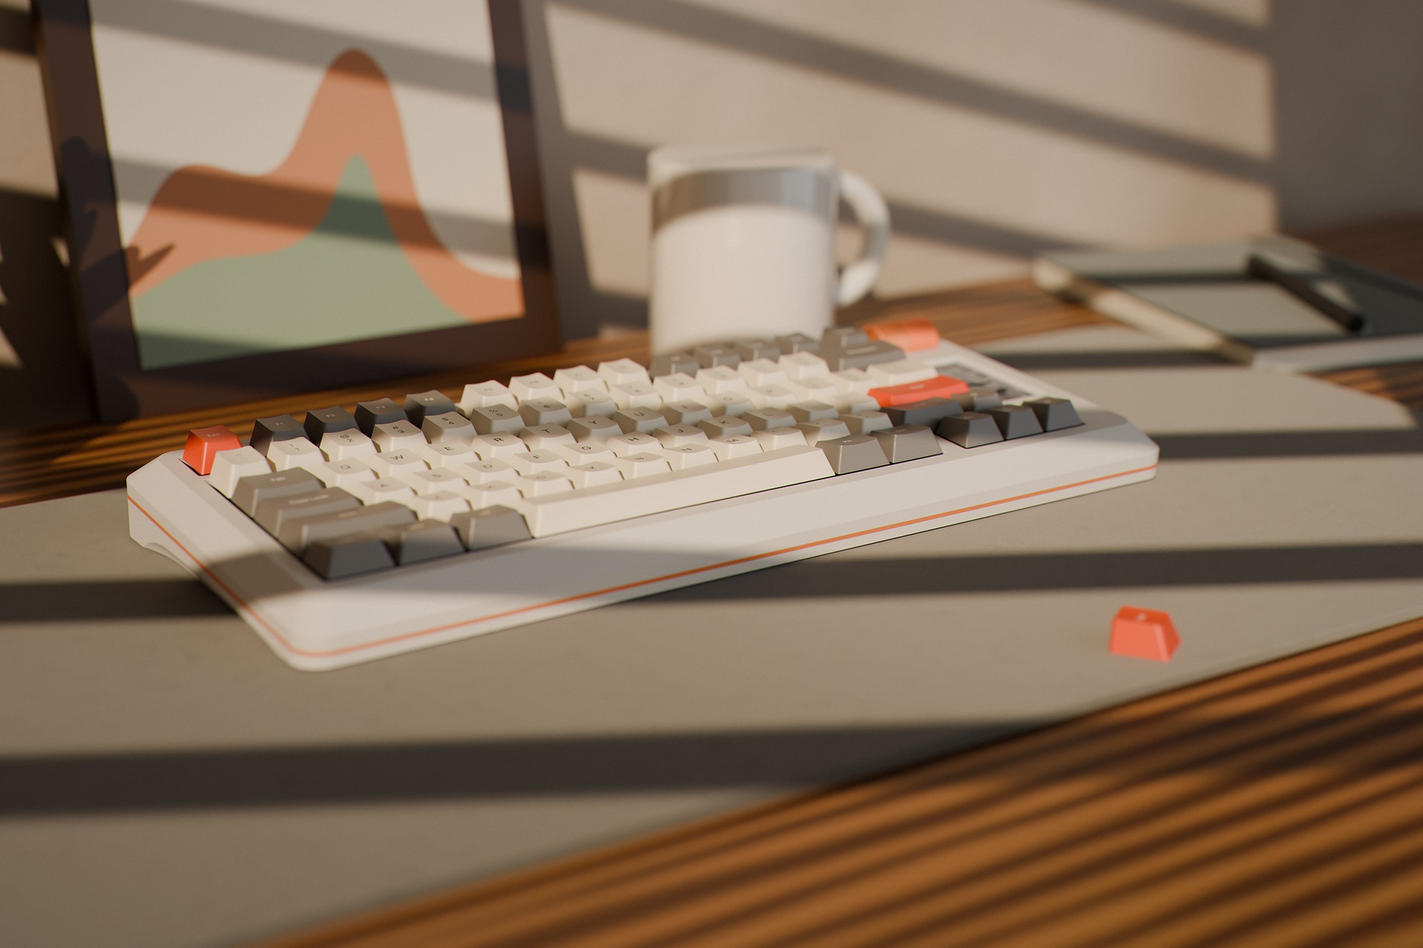
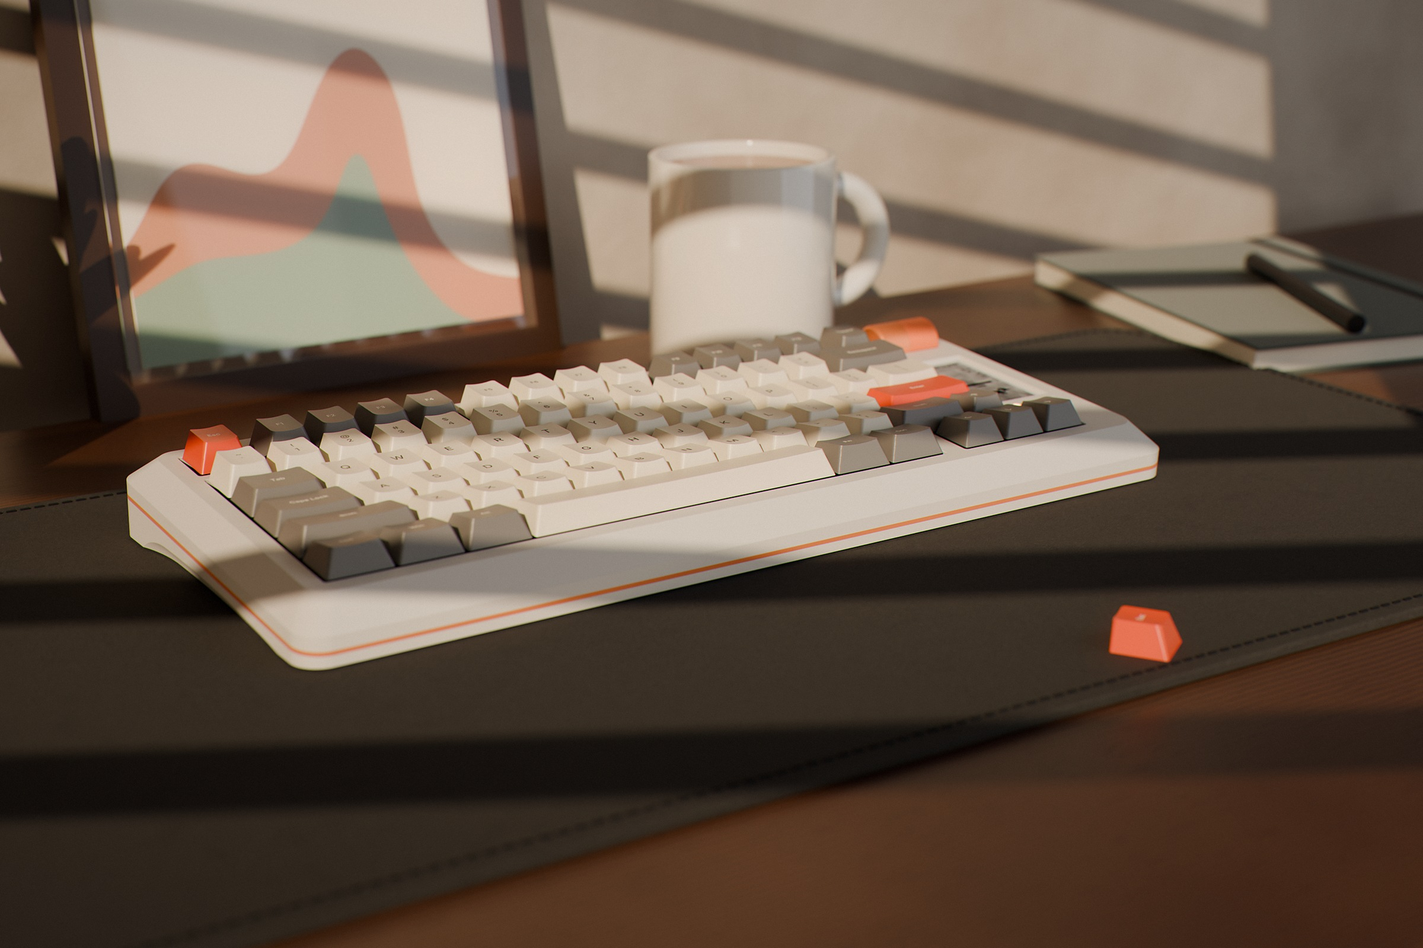
Case renders: third review
Dramatic: walnut plank desk, wool felt with black edge stitching, lime
plaster wall, coffee in a hollow mug, glass over the print. Views: darker
exposure, an even deep green backdrop that turns to face each camera,
gentler light on the brass. Both: left three status LEDs lit amber, a
little more dust and a stronger fingerprint.

diff --git a/hardware/case/blender/render.py b/hardware/case/blender/render.py
@@ -1,6 +1,6 @@
 # blender -b base_<accent>.blend --python render.py -- <scene> <outdir> [samples] [views]
 import bpy, bmesh, os, sys, math
-from mathutils import Vector, Euler
+from mathutils import Vector, Euler, Matrix
 argv = sys.argv[sys.argv.index("--") + 1:]
 SCENE, OUT = argv[0], argv[1]
 SAMPLES = int(argv[2]) if len(argv) > 2 else 256
@@ -27,7 +27,7 @@ sc.cycles.use_denoising = True
 sc.cycles.max_bounces = 10; sc.cycles.transmission_bounces = 10; sc.cycles.glossy_bounces = 6
 sc.view_settings.view_transform = "AgX"
 sc.view_settings.look = "AgX - Medium High Contrast"
-sc.view_settings.exposure = {"dramatic": 0.0, "views": -0.55}.get(SCENE, 0.0)
+sc.view_settings.exposure = {"dramatic": 0.0, "views": -0.85}.get(SCENE, 0.0)
 sc.cycles.filter_width = 1.2
 sc.cycles.denoising_prefilter = "ACCURATE"
 sc.render.image_settings.file_format = "PNG"
@@ -180,31 +180,68 @@ if SCENE == "dramatic":
             b = o.modifiers.new("bv", "BEVEL"); b.width = bevel; b.segments = 3; b.use_clamp_overlap = True
         return o
 
-    # --- oak desk: growth rings stretched along X, fine pores, satin finish ---
-    wood, nt, wb = node_mat("Oak desk")
+    # --- walnut desk: planks, flat-sawn cathedral grain (rings round a buried pith), pores, satin oil finish ---
+    wood, nt, wb = node_mat("Walnut desk")
+    def W(op, a, b=None, c=None):
+        n = nt.nodes.new("ShaderNodeMath"); n.operation = op
+        for i, v in enumerate((a, b, c)):
+            if v is None: continue
+            if isinstance(v, (int, float)): n.inputs[i].default_value = v
+            else: nt.links.new(v, n.inputs[i])
+        return n.outputs[0]
     geo = nt.nodes.new("ShaderNodeNewGeometry")
-    mp = N(nt, "ShaderNodeMapping"); mp.inputs["Scale"].default_value = (0.06, 1.0, 1.0)
-    nt.links.new(geo.outputs["Position"], mp.inputs["Vector"])
-    wv = N(nt, "ShaderNodeTexWave", Scale=22.0, Distortion=7.0, Detail=6.0, **{"Detail Scale": 1.6})
-    wv.wave_type = "RINGS"; nt.links.new(mp.outputs[0], wv.inputs["Vector"])
-    mp2 = N(nt, "ShaderNodeMapping"); mp2.inputs["Scale"].default_value = (0.05, 1.5, 1.0)
-    nt.links.new(geo.outputs["Position"], mp2.inputs["Vector"])
-    pores = N(nt, "ShaderNodeTexNoise", Scale=900.0, Detail=4.0); nt.links.new(mp2.outputs[0], pores.inputs["Vector"])
-    blot = N(nt, "ShaderNodeTexNoise", Scale=3.0, Detail=3.0); nt.links.new(geo.outputs["Position"], blot.inputs["Vector"])
-    cr = nt.nodes.new("ShaderNodeValToRGB"); e = cr.color_ramp.elements
-    e[0].position, e[0].color = 0.25, srgb("#5A361D"); e[1].position, e[1].color = 0.8, srgb("#A8774B")
-    nt.links.new(wv.outputs["Fac"], cr.inputs["Fac"])
-    mix = nt.nodes.new("ShaderNodeMix"); mix.data_type = "RGBA"; mix.blend_type = "MULTIPLY"
-    mix.inputs[0].default_value = 0.25; nt.links.new(cr.outputs["Color"], mix.inputs[6]); nt.links.new(blot.outputs["Color"], mix.inputs[7])
-    nt.links.new(mix.outputs[2], wb.inputs["Base Color"])
-    wb.inputs["Roughness"].default_value = 0.42; wb.inputs["Coat Weight"].default_value = 0.25
-    wb.inputs["Coat Roughness"].default_value = 0.25
-    add = N(nt, "ShaderNodeMath"); add.operation = "MULTIPLY_ADD"; add.inputs[1].default_value = 0.3
-    nt.links.new(pores.outputs["Fac"], add.inputs[0]); nt.links.new(wv.outputs["Fac"], add.inputs[2])
-    bp = N(nt, "ShaderNodeBump", Strength=0.12, Distance=0.0004)
-    nt.links.new(add.outputs[0], bp.inputs["Height"]); nt.links.new(bp.outputs["Normal"], wb.inputs["Normal"])
+    sp = nt.nodes.new("ShaderNodeSeparateXYZ"); nt.links.new(geo.outputs["Position"], sp.inputs[0])
+    X, Y = sp.outputs["X"], sp.outputs["Y"]
+    pid = W("FLOOR", W("DIVIDE", W("ADD", Y, 0.5), 0.145))            # plank index, 145 mm boards
+    wn = nt.nodes.new("ShaderNodeTexWhiteNoise"); wn.noise_dimensions = "1D"; nt.links.new(pid, wn.inputs["W"])
+    rnd = wn.outputs["Value"]
+    cx = nt.nodes.new("ShaderNodeCombineXYZ")
+    nt.links.new(W("MULTIPLY", X, 1.3), cx.inputs[0]); nt.links.new(W("MULTIPLY", pid, 3.7), cx.inputs[1])
+    dn = N(nt, "ShaderNodeTexNoise", Scale=1.0, Detail=3.0); nt.links.new(cx.outputs[0], dn.inputs["Vector"])
+    dn2 = N(nt, "ShaderNodeTexNoise", Scale=2.6, Detail=2.0); nt.links.new(cx.outputs[0], dn2.inputs["Vector"])
+    yd = W("ADD", W("ADD", Y, W("MULTIPLY", W("SUBTRACT", dn.outputs["Fac"], 0.5), 0.05)), W("MULTIPLY", rnd, 0.09))
+    dd = W("ADD", 0.012, W("MULTIPLY", dn2.outputs["Fac"], 0.06))  # pith depth below the surface
+    rr = W("SQRT", W("ADD", W("MULTIPLY", yd, yd), W("MULTIPLY", dd, dd)))
+    fine = N(nt, "ShaderNodeTexNoise", Scale=60.0, Detail=6.0); nt.links.new(geo.outputs["Position"], fine.inputs["Vector"])
+    ring = W("FRACT", W("ADD", W("MULTIPLY", rr, 340.0), W("MULTIPLY", fine.outputs["Fac"], 0.8)))
+    late = nt.nodes.new("ShaderNodeMapRange"); late.interpolation_type = "SMOOTHERSTEP"
+    nt.links.new(ring, late.inputs[0]); late.inputs[1].default_value = 0.55; late.inputs[2].default_value = 0.92
+    tone = N(nt, "ShaderNodeTexNoise", Scale=5.0, Detail=4.0); nt.links.new(geo.outputs["Position"], tone.inputs["Vector"])
+    base = nt.nodes.new("ShaderNodeValToRGB"); e = base.color_ramp.elements
+    e[0].position, e[0].color = 0.3, srgb("#4A2D1C"); e[1].position, e[1].color = 0.75, srgb("#7A5236")
+    nt.links.new(W("ADD", W("MULTIPLY", tone.outputs["Fac"], 0.7), W("MULTIPLY", rnd, 0.3)), base.inputs["Fac"])
+    mx = nt.nodes.new("ShaderNodeMix"); mx.data_type = "RGBA"
+    nt.links.new(W("MULTIPLY", late.outputs[0], 0.75), mx.inputs[0]); nt.links.new(base.outputs["Color"], mx.inputs[6])
+    mx.inputs[7].default_value = srgb("#2B190F")
+    # open pores: short dark streaks running with the grain
+    pm = N(nt, "ShaderNodeMapping"); pm.inputs["Scale"].default_value = (0.04, 1.0, 1.0)
+    nt.links.new(geo.outputs["Position"], pm.inputs["Vector"])
+    pore = N(nt, "ShaderNodeTexNoise", Scale=1400.0, Detail=2.0); nt.links.new(pm.outputs[0], pore.inputs["Vector"])
+    pmask = W("GREATER_THAN", pore.outputs["Fac"], 0.66)
+    mx2 = nt.nodes.new("ShaderNodeMix"); mx2.data_type = "RGBA"
+    nt.links.new(W("MULTIPLY", pmask, 0.5), mx2.inputs[0]); nt.links.new(mx.outputs[2], mx2.inputs[6])
+    mx2.inputs[7].default_value = srgb("#1E110A")
+    nt.links.new(mx2.outputs[2], wb.inputs["Base Color"])
+    nt.links.new(W("ADD", 0.38, W("MULTIPLY", pmask, 0.25)), wb.inputs["Roughness"])
+    wb.inputs["Coat Weight"].default_value = 0.3; wb.inputs["Coat Roughness"].default_value = 0.3
+    bp = N(nt, "ShaderNodeBump", Strength=0.25, Distance=0.0003)
+    nt.links.new(W("ADD", W("MULTIPLY", pmask, -1.0), W("MULTIPLY", late.outputs[0], 0.3)), bp.inputs["Height"])
+    nt.links.new(bp.outputs["Normal"], wb.inputs["Normal"])
 
-    plaster = surface_mat("Plaster", "#A08E7A", "#CDBFAD", scale=30, bump=0.9, rough=0.92)
+    # --- lime plaster wall: mottled colour, trowel undulation, sand grain ---
+    plaster, nt, plb = node_mat("Lime plaster")
+    geo = nt.nodes.new("ShaderNodeNewGeometry")
+    mot = N(nt, "ShaderNodeTexNoise", Scale=3.5, Detail=8.0, Roughness=0.6)
+    trw = N(nt, "ShaderNodeTexNoise", Scale=14.0, Detail=10.0, Roughness=0.55, Distortion=0.6)
+    snd = N(nt, "ShaderNodeTexNoise", Scale=900.0, Detail=4.0)
+    for t in (mot, trw, snd): nt.links.new(geo.outputs["Position"], t.inputs["Vector"])
+    cr = nt.nodes.new("ShaderNodeValToRGB"); e = cr.color_ramp.elements
+    e[0].position, e[0].color = 0.35, srgb("#A99886"); e[1].position, e[1].color = 0.68, srgb("#D4C8B6")
+    nt.links.new(mot.outputs["Fac"], cr.inputs["Fac"]); nt.links.new(cr.outputs["Color"], plb.inputs["Base Color"])
+    plb.inputs["Roughness"].default_value = 0.95
+    b1 = N(nt, "ShaderNodeBump", Strength=0.6, Distance=0.004); nt.links.new(trw.outputs["Fac"], b1.inputs["Height"])
+    b2 = N(nt, "ShaderNodeBump", Strength=0.35, Distance=0.0004); nt.links.new(snd.outputs["Fac"], b2.inputs["Height"])
+    nt.links.new(b1.outputs["Normal"], b2.inputs["Normal"]); nt.links.new(b2.outputs["Normal"], plb.inputs["Normal"])
     floor_m = simple_mat("Floor", "#2A231E", 0.8)
     # Desk pulled 6 cm off the wall: a gap with the floor in shadow below
     box("Desk", (1.6, 1.15, 0.032), (0, 0.24 - 0.575, -0.016), wood, bevel=0.002)
@@ -266,36 +303,80 @@ if SCENE == "dramatic":
     bv = mat_o.modifiers.new("bv", "BEVEL"); bv.width = 0.0012; bv.segments = 4; bv.limit_method = "ANGLE"
     felt, nt, fb = node_mat("Wool felt")
     fb.inputs["Roughness"].default_value = 1.0; fb.inputs["Sheen Weight"].default_value = 1.0
-    fb.inputs["Sheen Roughness"].default_value = 0.35; fb.inputs["Sheen Tint"].default_value = srgb("#C9C4BA")
+    fb.inputs["Sheen Roughness"].default_value = 0.4; fb.inputs["Sheen Tint"].default_value = srgb("#CFCAC0")
     geo = nt.nodes.new("ShaderNodeNewGeometry")
-    fib = N(nt, "ShaderNodeTexNoise", Scale=5200.0, Detail=12.0, Roughness=0.7, Distortion=1.5)
-    mot = N(nt, "ShaderNodeTexNoise", Scale=140.0, Detail=6.0)
-    hair = N(nt, "ShaderNodeTexVoronoi", Scale=2600.0); hair.feature = "DISTANCE_TO_EDGE"
-    for t in (fib, mot, hair): nt.links.new(geo.outputs["Position"], t.inputs["Vector"])
+    fib = N(nt, "ShaderNodeTexNoise", Scale=2400.0, Detail=14.0, Roughness=0.75, Distortion=2.5)
+    mot = N(nt, "ShaderNodeTexNoise", Scale=90.0, Detail=6.0)
+    pill = N(nt, "ShaderNodeTexVoronoi", Scale=520.0)
+    hair = N(nt, "ShaderNodeTexVoronoi", Scale=1800.0); hair.feature = "DISTANCE_TO_EDGE"
+    for t in (fib, mot, pill, hair): nt.links.new(geo.outputs["Position"], t.inputs["Vector"])
     cr = nt.nodes.new("ShaderNodeValToRGB"); e = cr.color_ramp.elements
-    e[0].position, e[0].color = 0.3, srgb("#3A3936"); e[1].position, e[1].color = 0.72, srgb("#5B5953")
-    mm = N(nt, "ShaderNodeMath"); mm.operation = "MULTIPLY_ADD"; mm.inputs[1].default_value = 0.55
+    e[0].position, e[0].color = 0.28, srgb("#34332F"); e[1].position, e[1].color = 0.74, srgb("#64625B")
+    mm = N(nt, "ShaderNodeMath"); mm.operation = "MULTIPLY_ADD"; mm.inputs[1].default_value = 0.65
     nt.links.new(fib.outputs["Fac"], mm.inputs[0]); nt.links.new(mot.outputs["Fac"], mm.inputs[2])
     nt.links.new(mm.outputs[0], cr.inputs["Fac"]); nt.links.new(cr.outputs["Color"], fb.inputs["Base Color"])
-    hh = N(nt, "ShaderNodeMath"); hh.operation = "MULTIPLY_ADD"; hh.inputs[1].default_value = 0.6
+    hh = N(nt, "ShaderNodeMath"); hh.operation = "MULTIPLY_ADD"; hh.inputs[1].default_value = 0.8
     nt.links.new(hair.outputs["Distance"], hh.inputs[0]); nt.links.new(fib.outputs["Fac"], hh.inputs[2])
-    bp = N(nt, "ShaderNodeBump", Strength=0.6, Distance=0.0005)
-    nt.links.new(hh.outputs[0], bp.inputs["Height"]); nt.links.new(bp.outputs["Normal"], fb.inputs["Normal"])
+    pp = N(nt, "ShaderNodeMath"); pp.operation = "MULTIPLY_ADD"; pp.inputs[1].default_value = -0.5
+    nt.links.new(pill.outputs["Distance"], pp.inputs[0]); nt.links.new(hh.outputs[0], pp.inputs[2])
+    bp = N(nt, "ShaderNodeBump", Strength=1.6, Distance=0.0010)
+    nt.links.new(pp.outputs[0], bp.inputs["Height"]); nt.links.new(bp.outputs["Normal"], fb.inputs["Normal"])
     me.materials.append(felt)
+    # black edge stitching: short thread dashes 6 mm in from the edge, every 4 mm
+    thread = simple_mat("Black thread", "#070707", 0.92)
+    ins, step = 0.007, 0.005
+    w2, h2, rr2 = W2 - ins, H2 - ins, r - ins
+    path = []
+    for cx, cy, a0 in ((w2 - rr2, h2 - rr2, 0), (-w2 + rr2, h2 - rr2, 90), (-w2 + rr2, -h2 + rr2, 180), (w2 - rr2, -h2 + rr2, 270)):
+        for i in range(25):
+            a = math.radians(a0 + i * 3.75); path.append(Vector((cx + rr2 * math.cos(a), cy + rr2 * math.sin(a), 0)))
+    dense = []
+    for i in range(len(path)):
+        p0, p1 = path[i], path[(i + 1) % len(path)]
+        n = max(1, int((p1 - p0).length / 0.0005))
+        dense += [p0.lerp(p1, k / n) for k in range(n)]
+    bm2 = bmesh.new(); acc = 0.0; prev = dense[0]
+    for p in dense[1:]:
+        acc += (p - prev).length; prev = p
+        if acc >= step:
+            acc = 0.0
+            i = dense.index(p); t = (dense[(i + 1) % len(dense)] - dense[i - 1]).normalized()
+            ang = math.atan2(t.y, t.x)
+            mtx = (Matrix.Translation((p.x, p.y, MAT_T + 0.0001)) @ Matrix.Rotation(ang, 4, "Z")
+                   @ Matrix.Diagonal((0.0034, 0.0011, 0.0009, 1.0)))
+            bmesh.ops.create_cube(bm2, size=1.0, matrix=mtx)
+    me2 = bpy.data.meshes.new("Stitching"); bm2.to_mesh(me2)
+    st = link(bpy.data.objects.new("Stitching", me2)); st.parent = mat_o; me2.materials.append(thread)
+    sb = st.modifiers.new("bv", "BEVEL"); sb.width = 0.0002; sb.segments = 2
     root.location.z += MAT_T
 
     # --- props ---
     mug_m = simple_mat("Glazed ceramic", "#ECE6DA", 0.1, **{"Coat Weight": 0.6})
-    add_dust_spots = None
-    bpy.ops.mesh.primitive_cylinder_add(radius=0.042, depth=0.095, vertices=128, location=(0.15, 0.17, 0.0475))
-    mug = bpy.context.object; mug.data.materials.append(mug_m)
-    b2 = mug.modifiers.new("bv", "BEVEL"); b2.width = 0.003; b2.segments = 4
-    for p in mug.data.polygons: p.use_smooth = True
+    bm3 = bmesh.new()
+    bmesh.ops.create_cone(bm3, cap_ends=True, segments=128, radius1=0.042, radius2=0.042, depth=0.095)
+    top = max(bm3.faces, key=lambda f: f.calc_center_median().z); bmesh.ops.delete(bm3, geom=[top], context="FACES")
+    me3 = bpy.data.meshes.new("Mug"); bm3.to_mesh(me3)
+    mug = link(bpy.data.objects.new("Mug", me3)); mug.location = (0.15, 0.17, 0.0475); me3.materials.append(mug_m)
+    so_ = mug.modifiers.new("wall", "SOLIDIFY"); so_.thickness = 0.0045; so_.offset = -1
+    b2 = mug.modifiers.new("bv", "BEVEL"); b2.width = 0.0012; b2.segments = 3; b2.limit_method = "ANGLE"
+    for p in me3.polygons: p.use_smooth = True
     bpy.ops.mesh.primitive_torus_add(major_radius=0.026, minor_radius=0.0065, location=(0.15 + 0.050, 0.17, 0.05),
                                      rotation=(math.radians(90), 0, 0), major_segments=64, minor_segments=24)
     bpy.context.object.data.materials.append(mug_m)
-    bpy.ops.mesh.primitive_cylinder_add(radius=0.039, depth=0.002, vertices=128, location=(0.15, 0.17, 0.084))
-    bpy.context.object.data.materials.append(simple_mat("Coffee", "#24140A", 0.04))
+    coffee, nt, cb = node_mat("Coffee with crema")
+    tcc = nt.nodes.new("ShaderNodeTexCoord"); ln = nt.nodes.new("ShaderNodeVectorMath"); ln.operation = "LENGTH"
+    nt.links.new(tcc.outputs["Object"], ln.inputs[0])
+    ns = N(nt, "ShaderNodeTexNoise", Scale=400.0, Detail=6.0); nt.links.new(tcc.outputs["Object"], ns.inputs["Vector"])
+    rim = nt.nodes.new("ShaderNodeMapRange"); rim.inputs[1].default_value = 0.028; rim.inputs[2].default_value = 0.0375
+    nt.links.new(ln.outputs[0], rim.inputs[0])
+    cc = nt.nodes.new("ShaderNodeValToRGB"); e = cc.color_ramp.elements
+    e[0].position, e[0].color = 0.2, srgb("#2A150A"); e[1].position, e[1].color = 0.9, srgb("#9A6234")
+    mxc = N(nt, "ShaderNodeMath"); mxc.operation = "MULTIPLY_ADD"; mxc.inputs[1].default_value = 0.35
+    nt.links.new(ns.outputs["Fac"], mxc.inputs[0]); nt.links.new(rim.outputs[0], mxc.inputs[2])
+    nt.links.new(mxc.outputs[0], cc.inputs["Fac"]); nt.links.new(cc.outputs["Color"], cb.inputs["Base Color"])
+    cb.inputs["Roughness"].default_value = 0.08
+    bpy.ops.mesh.primitive_cylinder_add(radius=0.0374, depth=0.001, vertices=128, location=(0.15, 0.17, 0.0885))
+    bpy.context.object.data.materials.append(coffee)
     # Cloth-bound notebook: linen weave cover, cream page block, an elastic band
     linen, nt, lb = node_mat("Linen cover")
     tco = nt.nodes.new("ShaderNodeTexCoord")
@@ -359,42 +440,63 @@ if SCENE == "dramatic":
     pv = link(bpy.data.objects.new("Frame pivot", None)); pv.location = (-0.02, 0.23, 0.0); pv.rotation_euler.x = -lean
     fr = box("Frame", (0.22, 0.014, H), (0, 0.007, H / 2), frame_m, bevel=0.002); fr.parent = pv
     pr2 = box("Print", (0.18, 0.002, H - 0.04), (0, -0.0005, H / 2), art); pr2.parent = pv
+    glass = simple_mat("Picture glass", "#FFFFFF", 0.01, **{"Transmission Weight": 1.0, "IOR": 1.52})
+    gl = box("Glass", (0.192, 0.0015, H - 0.028), (0, -0.0022, H / 2), glass); gl.parent = pv; gl.visible_shadow = False
     copy_cap("Esc", (0.20, -0.16, 0.0), Euler((0, 0, math.radians(32))), floor=MAT_T)
     # Board fills the frame; shallow depth of field drops the props out of focus
-    cam = camera("Cam", (-0.40, -0.63, 0.25), (0.02, 0.0, 0.012), lens=55, fstop=3.5)
+    cam = camera("Cam", (-0.40, -0.63, 0.25), (0.02, 0.0, 0.012), lens=55, fstop=6.3)
     cam.data.dof.focus_distance = (Vector((-0.01, -0.03, 0.02)) - cam.location).length
     shot(cam, "01-dramatic", (3600, 2400))
 
 
 # =====================================================================
 elif SCENE == "views":
-    world("#2C3F38", 0.25)
-    sage = surface_mat("Deep green paper", "#2A3D35", "#34493F", scale=90, bump=0.12, rough=0.95)
-    sweep("Cyc", 8.0, 1.6, 1.6, 0.35, sage, y0=0.25)
-    area("Brass card", (0.0, 0.05, 0.6), (0, 0, 0), 0.5, 6, (1.0, 0.97, 0.92))
-    area("Wash", (0, -0.6, 0.9), (0, 1.05, 0.5), 2.5, 8, (1.0, 0.98, 0.95))
-    area("Key", (-0.55, -0.55, 0.75), CTR, 0.7, 22, (1.0, 0.96, 0.9))
-    area("Rim", (0.6, 0.55, 0.45), CTR, 0.6, 9, (1.0, 0.95, 0.88))
-    area("Top", (0.0, -0.1, 1.1), CTR, 1.4, 1)
-    d = 0.75
+    # Deep green seamless paper, turned to face each camera so there is never a void behind the board
+    world("#24352F", 0.5)
+    paper = bpy.data.materials.new("Deep green paper"); paper.use_nodes = True; nt = paper.node_tree
+    pb = next(n for n in nt.nodes if n.type == "BSDF_PRINCIPLED")
+    pb.inputs["Base Color"].default_value = srgb("#2E4339"); pb.inputs["Roughness"].default_value = 0.9
+    geo = nt.nodes.new("ShaderNodeNewGeometry"); gr = nt.nodes.new("ShaderNodeTexNoise")
+    gr.inputs["Scale"].default_value = 1800.0; gr.inputs["Detail"].default_value = 3.0
+    nt.links.new(geo.outputs["Position"], gr.inputs["Vector"])
+    bpn = nt.nodes.new("ShaderNodeBump"); bpn.inputs["Strength"].default_value = 0.08; bpn.inputs["Distance"].default_value = 0.0002
+    nt.links.new(gr.outputs["Fac"], bpn.inputs["Height"]); nt.links.new(bpn.outputs["Normal"], pb.inputs["Normal"])
+    pb.inputs["Emission Color"].default_value = srgb("#2E4339")
+    # the curve and wall glow a little (the floor doesn't), so the backdrop never falls off to black
+    nz = nt.nodes.new("ShaderNodeSeparateXYZ"); nt.links.new(geo.outputs["Normal"], nz.inputs[0])
+    em = nt.nodes.new("ShaderNodeMapRange"); em.inputs[1].default_value = 1.0; em.inputs[2].default_value = 0.3
+    em.inputs[3].default_value = 0.15; em.inputs[4].default_value = 1.1
+    nt.links.new(nz.outputs["Z"], em.inputs[0]); nt.links.new(em.outputs[0], pb.inputs["Emission Strength"])
+    cyc = sweep("Cyc", 12.0, 3.0, 3.0, 0.6, paper, y0=0.6)
+    wash = area("Wash", (0, -0.6, 0.9), (0, 2.1, 0.8), 3.0, 30, (1.0, 0.98, 0.95)); wash.parent = cyc
+    key = area("Key", (-0.55, -0.55, 0.75), CTR, 0.6, 14, (1.0, 0.96, 0.9))
+    rim = area("Rim", (0.6, 0.55, 0.45), CTR, 0.6, 8, (1.0, 0.95, 0.88))
+    def face(cam):
+        f = cam.rotation_euler.to_quaternion() @ Vector((0, 0, -1))
+        cyc.rotation_euler.z = math.atan2(-f.x, f.y) if Vector((f.x, f.y)).length > 0.2 else 0.0
     v = {
         "hero": camera("hero", (-0.36, -0.52, 0.30), (0.0, 0.0, 0.01), lens=50, fstop=5.6),
-        "front": camera("front", (0, -0.85, 0.06), (0, 0, 0.012), lens=70),
         "top": camera("top", (0, 0, 0.9), (0, 0.0001, 0), lens=50, ortho=0.39),
         "back": camera("back", (0.05, 0.78, 0.14), (0.0, 0.0, 0.012), lens=50),
         "right-end": camera("right-end", (0.62, -0.12, 0.10), (0.11, 0.0, 0.02), lens=55),
         "knob": camera("knob", (0.32, -0.20, 0.16), (0.14, 0.01, 0.022), lens=85, fstop=6.3),
     }
-    for k in ("hero", "front", "top", "back", "right-end", "knob"):
-        shot(v[k], "views-" + k, (3600, 2400) if k == "hero" else (2400, 1600))
+    for k in ("hero", "top", "back", "right-end", "knob"):
+        face(v[k]); shot(v[k], "views-" + k, (3600, 2400) if k == "hero" else (2400, 1600))
     # underside: flip the board onto its keycaps
     root.rotation_euler = (math.radians(180), 0, 0)
     bpy.context.view_layer.update(); lo2, hi2 = world_bounds()
     root.location.z -= lo2.z; root.location.y -= (lo2.y + hi2.y) / 2
     bpy.context.view_layer.update()
     cam = camera("under", (-0.30, -0.48, 0.42), (0.0, 0.0, 0.03), lens=50, fstop=5.6)
-    shot(cam, "views-underside", (2400, 1600))
+    face(cam); shot(cam, "views-underside", (2400, 1600))
+    # weight close-up: the polished face mirrors whatever is above it, so give it one big, even, dim softbox
+    # (a smooth gold gradient) and let the engraving's walls catch a low side light
+    for o in (key, rim): o.hide_render = True
     camw = camera("weight", (0.0, 0.20, 0.30), (0.0, 0.0, 0.035), lens=85, fstop=4.5)
+    face(camw)
+    area("Weight soft", (0.0, -0.30, 0.40), (0.0, 0.0, 0.035), 0.6, 0.45, (1.0, 0.96, 0.9), sy=0.18)
+    area("Weight rake", (0.55, 0.05, 0.08), (0.0, 0.0, 0.035), 0.25, 4, (1.0, 0.95, 0.88))
     shot(camw, "views-weight", (2400, 1600))
 
 # =====================================================================

diff --git a/hardware/case/blender/build.py b/hardware/case/blender/build.py
@@ -63,7 +63,7 @@ add_bump(M["plate"], 2000, 0.15)
 for k in ("cap_alpha", "cap_mod", "cap_accent", "knob"):
     add_bump(M[k], 2600, 0.02)  # faint moulding / blasting texture
 
-def add_dust(m, scale=1400.0, thresh=0.988, col="#D9D5CE"):
+def add_dust(m, scale=1100.0, thresh=0.978, col="#DCD8D0"):
     """Sparse sub-millimetre specks: a random few Voronoi cells get a dusty, rough dot."""
     nt = m.node_tree; b = next(n for n in nt.nodes if n.type == "BSDF_PRINCIPLED")
     tc = nt.nodes.new("ShaderNodeTexCoord")
@@ -72,7 +72,7 @@ def add_dust(m, scale=1400.0, thresh=0.988, col="#D9D5CE"):
     sep = nt.nodes.new("ShaderNodeSeparateColor"); nt.links.new(v.outputs["Color"], sep.inputs[0])
     pick = nt.nodes.new("ShaderNodeMath"); pick.operation = "GREATER_THAN"; pick.inputs[1].default_value = thresh
     nt.links.new(sep.outputs[0], pick.inputs[0])
-    near = nt.nodes.new("ShaderNodeMath"); near.operation = "LESS_THAN"; near.inputs[1].default_value = 0.22
+    near = nt.nodes.new("ShaderNodeMath"); near.operation = "LESS_THAN"; near.inputs[1].default_value = 0.28
     nt.links.new(v.outputs["Distance"], near.inputs[0])
     mask = nt.nodes.new("ShaderNodeMath"); mask.operation = "MULTIPLY"
     nt.links.new(pick.outputs[0], mask.inputs[0]); nt.links.new(near.outputs[0], mask.inputs[1])
@@ -105,13 +105,13 @@ sc_ = nt.nodes.new("ShaderNodeMath"); sc_.operation = "MULTIPLY"; sc_.inputs[1].
 nt.links.new(ph.outputs[0], sc_.inputs[0]); nt.links.new(sc_.outputs[0], rg.inputs[0])
 rid = nt.nodes.new("ShaderNodeMath"); rid.operation = "GREATER_THAN"; rid.inputs[1].default_value = 0.2
 nt.links.new(rg.outputs[0], rid.inputs[0])
-fall = nt.nodes.new("ShaderNodeMapRange"); fall.inputs[1].default_value = 0.0085; fall.inputs[2].default_value = 0.0055
+fall = nt.nodes.new("ShaderNodeMapRange"); fall.inputs[1].default_value = 0.0095; fall.inputs[2].default_value = 0.006
 fall.inputs[3].default_value = 0.0; fall.inputs[4].default_value = 1.0; nt.links.new(ln.outputs[0], fall.inputs[0])
 fm = nt.nodes.new("ShaderNodeMath"); fm.operation = "MULTIPLY"
 nt.links.new(rid.outputs[0], fm.inputs[0]); nt.links.new(fall.outputs[0], fm.inputs[1])
-rr = nt.nodes.new("ShaderNodeMath"); rr.operation = "MULTIPLY_ADD"; rr.inputs[1].default_value = 0.16; rr.inputs[2].default_value = 0.07
+rr = nt.nodes.new("ShaderNodeMath"); rr.operation = "MULTIPLY_ADD"; rr.inputs[1].default_value = 0.27; rr.inputs[2].default_value = 0.07
 nt.links.new(fm.outputs[0], rr.inputs[0]); nt.links.new(rr.outputs[0], bb.inputs["Roughness"])
-add_dust(M["brass"], 1400, 0.992)
+add_dust(M["brass"], 1100, 0.982)
 
 # E-ink picture: an image mapped across the panel's bounding box (top of the image = back of the board)
 ei = mat("E-ink", "#E4E1DA", 0.9, 0.0); nt = ei.node_tree; eb = next(n for n in nt.nodes if n.type == "BSDF_PRINCIPLED")
@@ -190,5 +190,19 @@ for e in man:
     if role == "legend":  # lift legends a hair off the cap so they never z-fight
         o.location.z += 0.00002
 root.location.z = 0.001  # rubber rails stand 1 mm proud of the floor
+
+# Status LEDs: five 3 mm holes under the screen (found in the top block's mesh); the left three glow amber
+amber = bpy.data.materials.new("LED amber"); amber.use_nodes = True
+ab = next(n for n in amber.node_tree.nodes if n.type == "BSDF_PRINCIPLED")
+ab.inputs["Base Color"].default_value = (1.0, 0.45, 0.06, 1); ab.inputs["Emission Color"].default_value = (1.0, 0.30, 0.015, 1)
+ab.inputs["Emission Strength"].default_value = 14.0; ab.inputs["Roughness"].default_value = 0.4
+off = mat("LED off (diffuser)", "#2A2724", 0.35, 0.0)
+for i, x in enumerate((0.1317, 0.1381, 0.1445, 0.1509, 0.1573)):
+    bpy.ops.mesh.primitive_cylinder_add(radius=0.00145, depth=0.0016, vertices=32, location=(x, -0.03175, 0.0212))
+    led = bpy.context.object; led.name = f"led:{i}"; led["role"] = "led"
+    led.rotation_euler.x = math.radians(4.0)
+    led.data.materials.append(amber if i < 3 else off)
+    for c in led.users_collection: c.objects.unlink(led)
+    col.objects.link(led); led.parent = root
 print("roles", roles)
 bpy.ops.wm.save_as_mainfile(filepath=os.path.join(os.environ.get("OUT", S), f"base_{ACCENT}.blend"))
